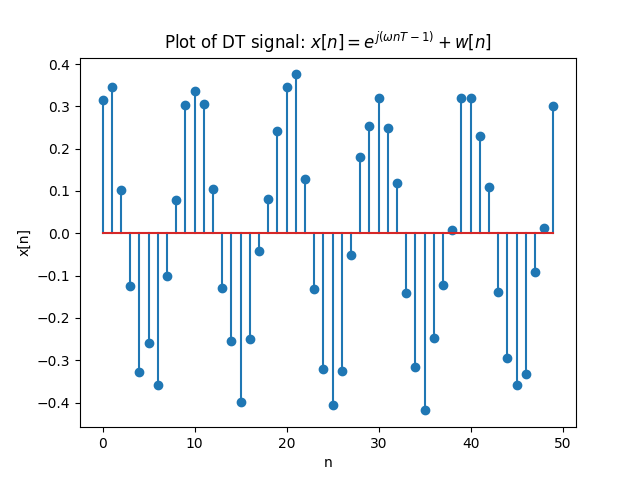
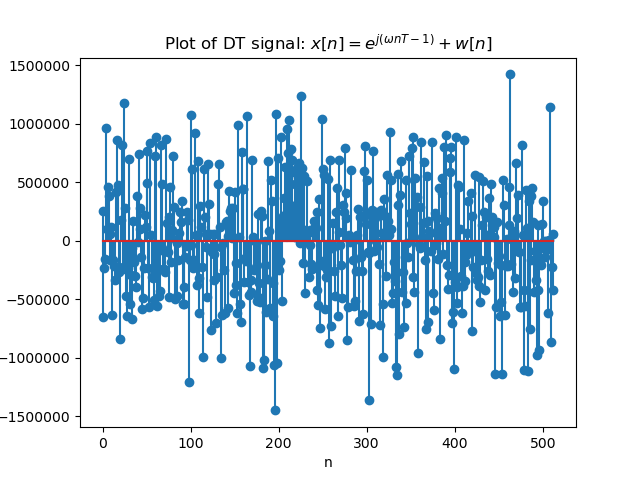
Norge

diff --git a/main.py b/main.py
@@ -4,8 +4,8 @@ import buggesmatteland as bml
 
 # ---------- Specifications ---------- #
 A = 1
-SNR = 10 # In dB
-SIGMA_SQUARED = (A**2)/(2*SNR)
+SNR = 60 # In dB
+SIGMA_SQUARED = (A**2)/(2*10**(-SNR/10))
 T = 10**(-6) 
 N = 513
 n_0 = -256
@@ -38,7 +38,7 @@ for i in range(N):
 # Exponential signal
 s = []
 for n in range(N):
-    s.append(A*np.exp(np.complex(0,1)*(omega_0)*n*T - 1))
+    s.append(A*np.exp(np.complex(0,1)*(omega_0)*n*T + theta))
 
 # Total signal
 x = []
@@ -76,11 +76,13 @@ def main():
     plt.ylabel("x[n]")
     plt.stem(n,x)
     plt.savefig("stem.png")
+    plt.show()
 
     # Fourier transform
     FT_s = np.fft.fft(s,n = fft_length)
     FT_x = np.fft.fft(x,fft_length)
 
+    
 
     print(len(x))
     print(len(s))
@@ -98,6 +100,8 @@ def main():
     plt.stem(np.arange(len(FT_x)),FT_x)
     plt.savefig("fft.png")    
     
+    plt.show()
+
     # Checking that most dominant is as is to be expected
     f = bml.findDominantFrequency(FT_s,T,fft_length)
     print("Most dominant frequency in s[in] is: ", f, " Hz")
